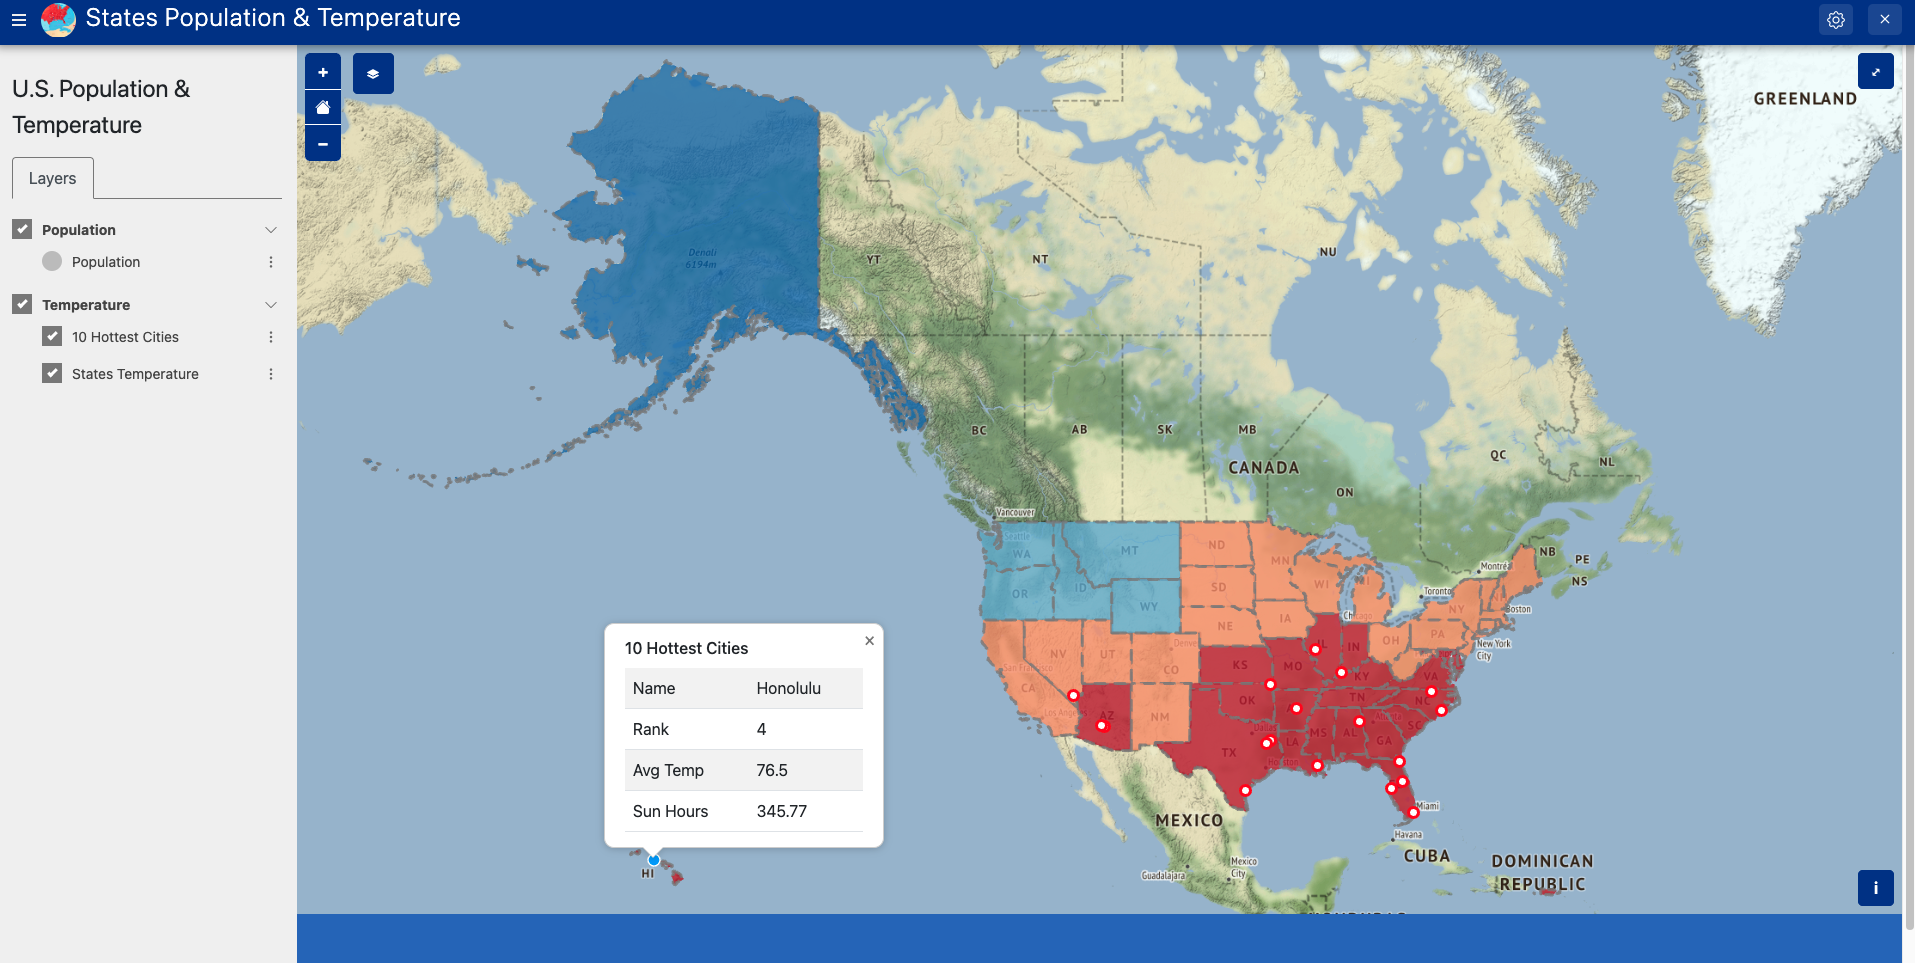
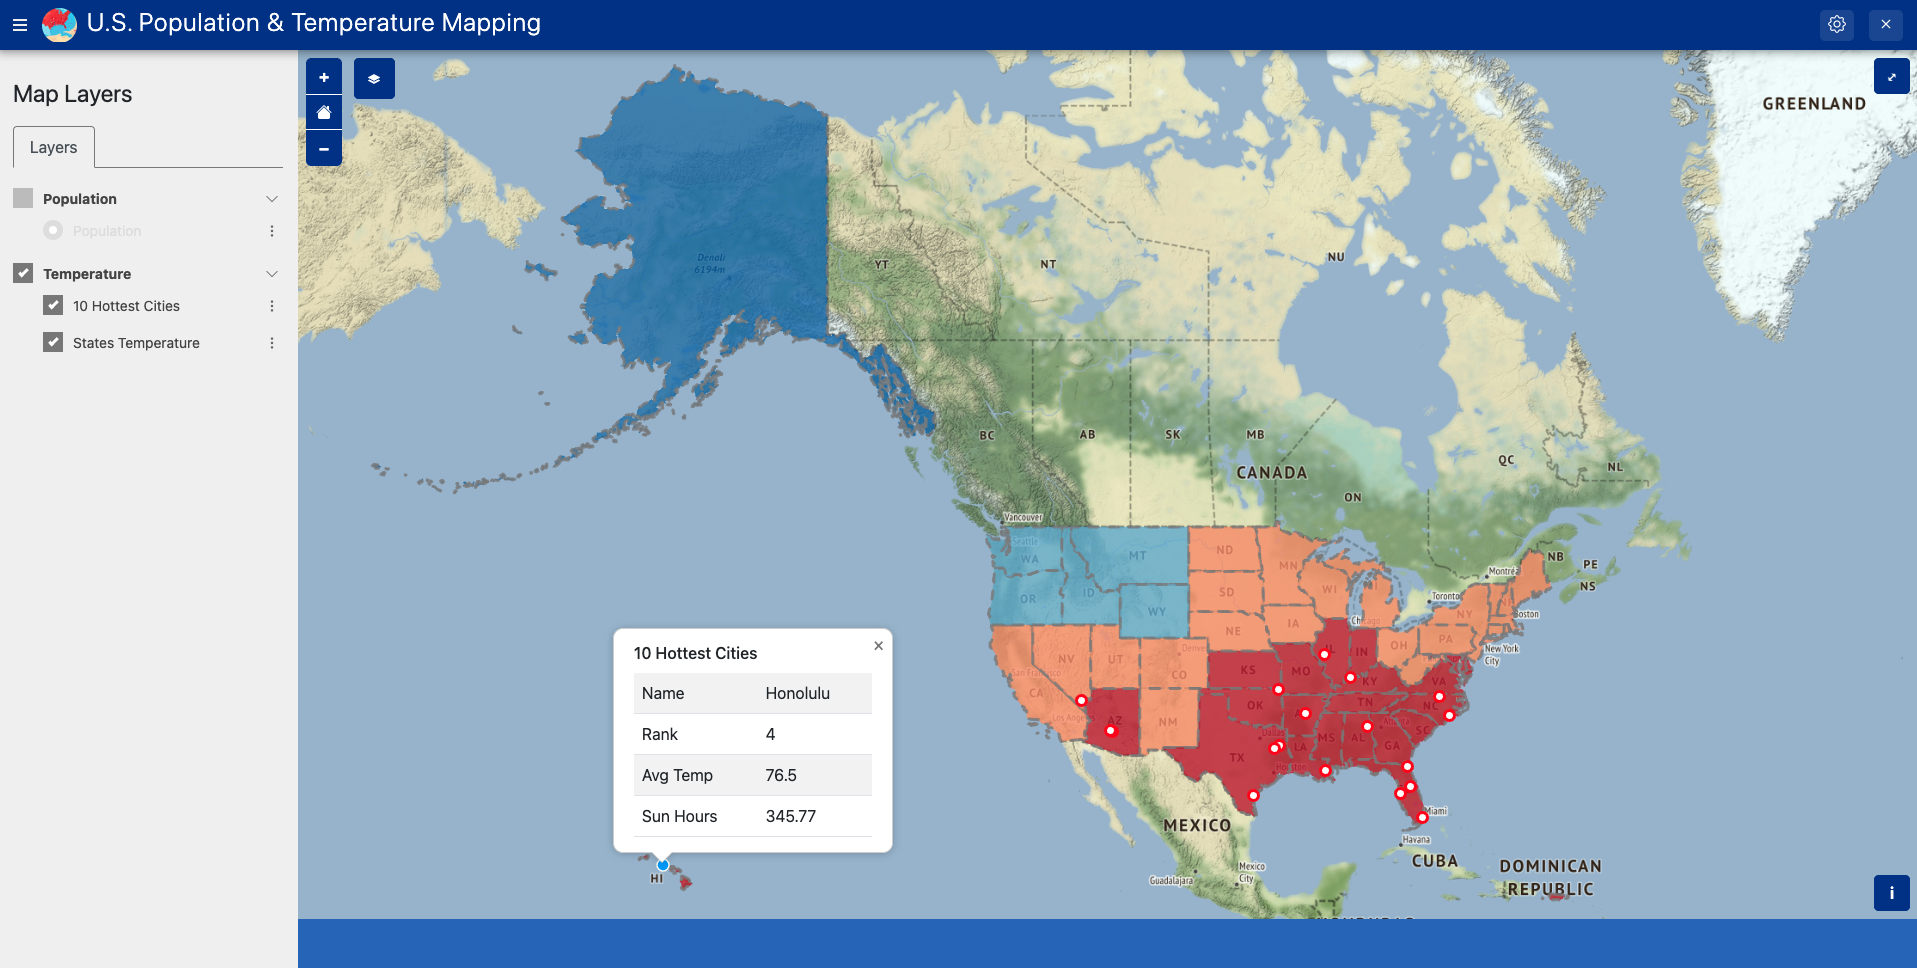
update titles and README pictures

diff --git a/setup.py b/setup.py
@@ -16,7 +16,7 @@ resource_files = find_all_resource_files(app_package, TethysAppBase.package_name
 setup(
     name=release_package,
     version='0.0.1',
-    description='US States Temperature Mapping',
+    description='U.S. States Population & Temperature Mapping',
     long_description='',
     keywords='',
     author='Yue Sun',

diff --git a/tethysapp/state_temp_map/controllers.py b/tethysapp/state_temp_map/controllers.py
@@ -17,7 +17,7 @@ MODEL_OUTPUT_FOLDER_NAME = 'states_temp'
 class StateTempMap(MapLayout):
     app = app
     base_template = 'state_temp_map/base.html'
-    map_title = 'U.S. Population & Temperature'
+    map_title = 'Map Layers'
     map_subtitle = ''
     show_properties_popup = True
     plot_slide_sheet = True
